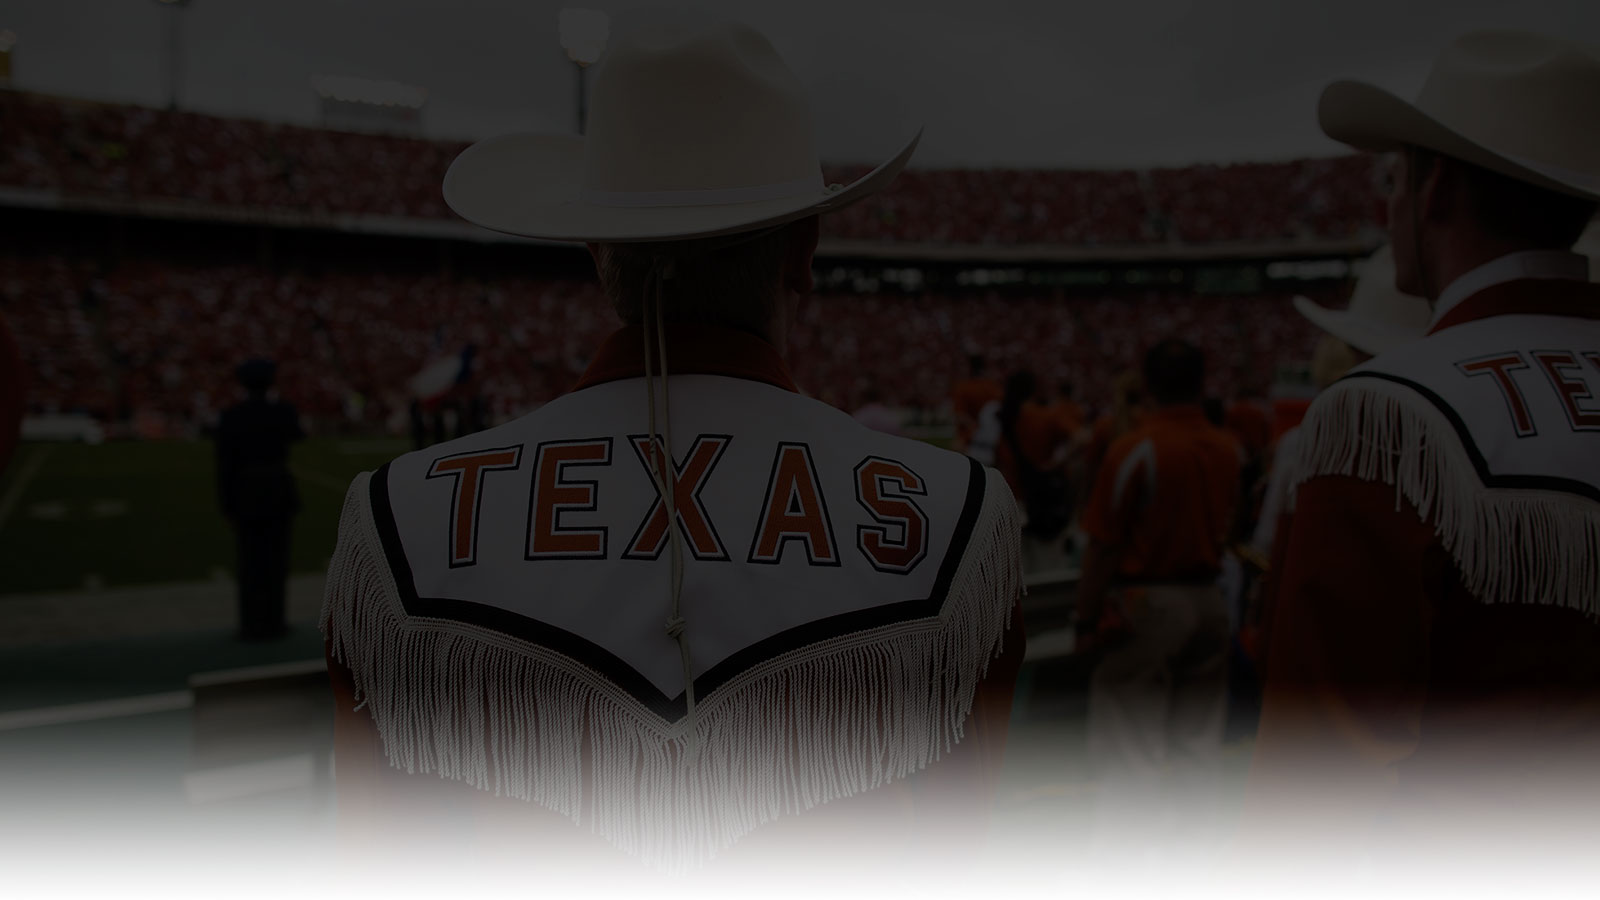
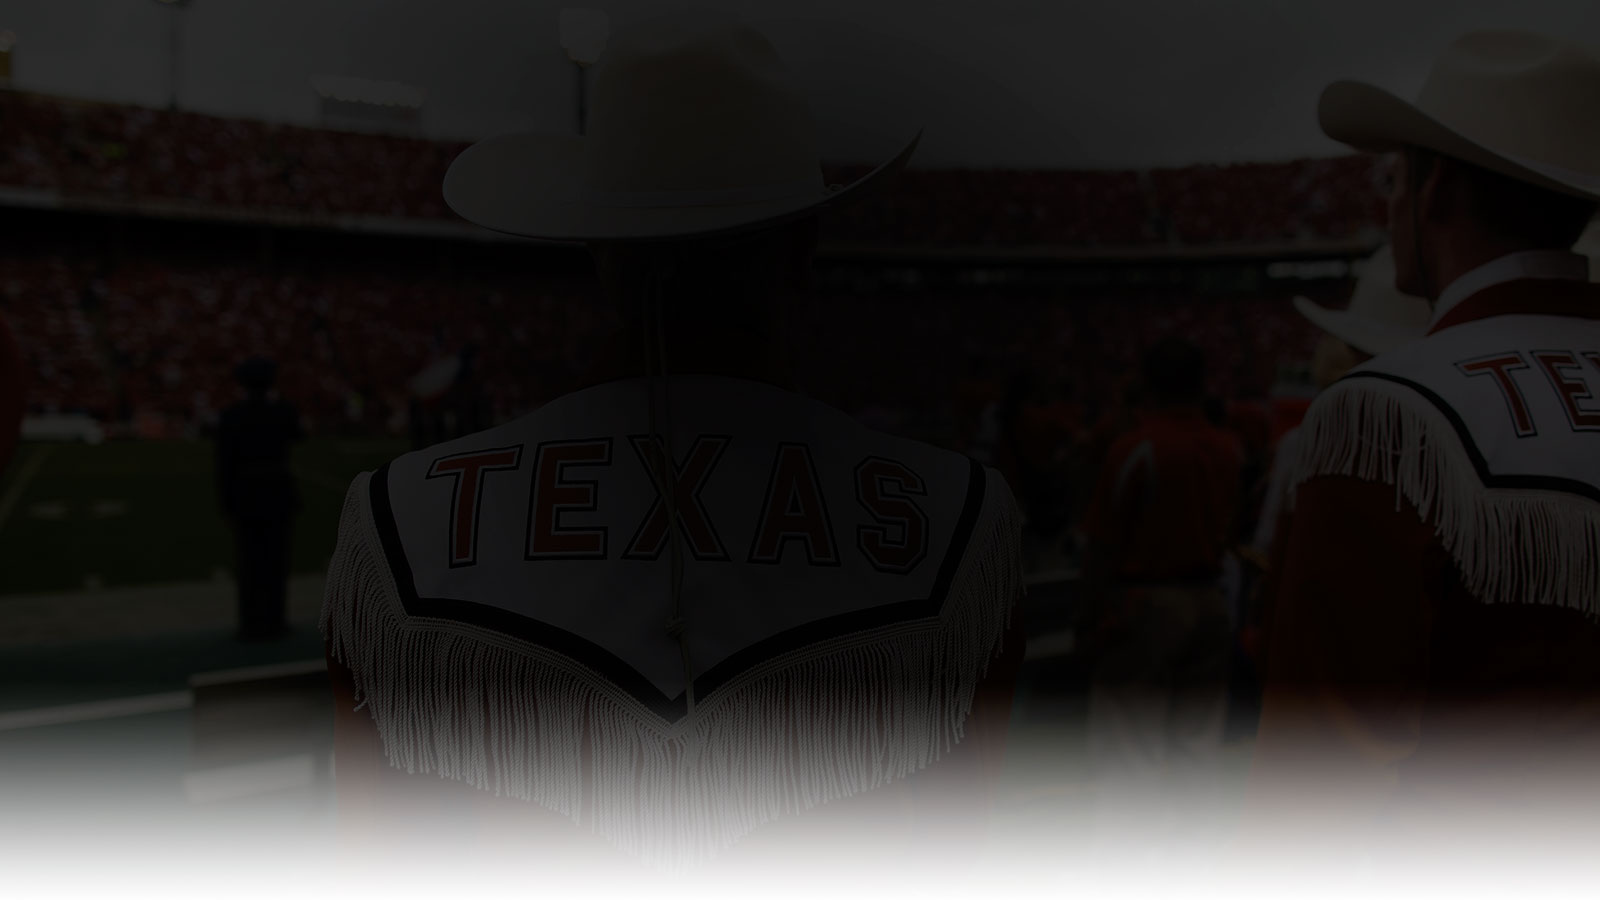
Updated cover images. Added limiter to home page masthead p.

diff --git a/css/style.css b/css/style.css
@@ -2514,3 +2514,8 @@ ul.primary {
   .search input[type="submit"]:hover,
   .search .form-submit:hover {
     background-image: url(../img/icons/search-blue.svg); }
+
+.masthead p {
+  margin-right: auto;
+  margin-left: auto;
+  max-width: 700px; }

diff --git a/_scss/partials/components/prototype-only/_menu-icons.scss b/_scss/partials/components/prototype-only/_menu-icons.scss
@@ -53,3 +53,11 @@
     }
   }
 }
+
+.masthead {
+  p {
+    margin-right: auto;
+    margin-left: auto;
+    max-width: 700px;
+  }
+}
